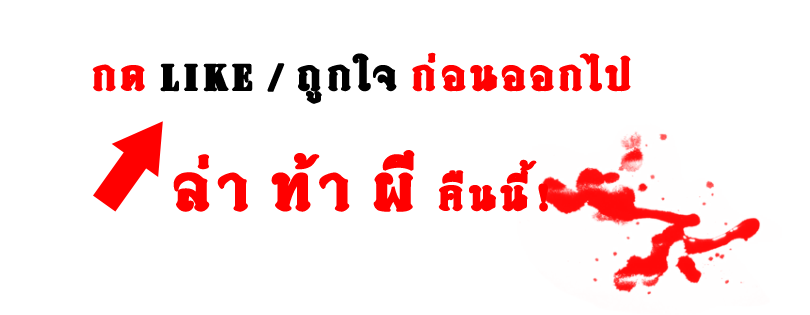
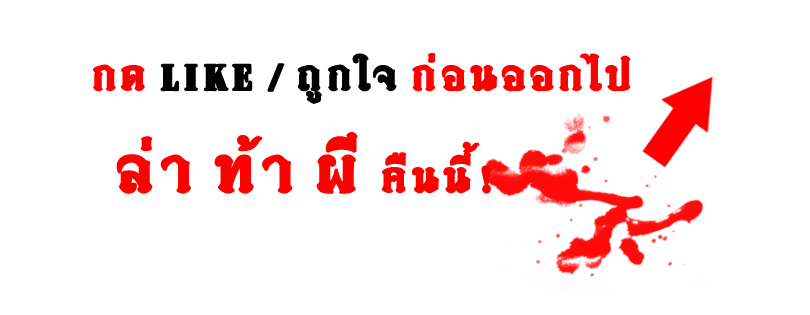
Added images Changed size & position Change like image

Changed region(s): [[0.0926, 0.2286, 0.9568, 0.9429], [0.8642, 0.5714, 0.8951, 0.6]]

diff --git a/application/config/socialhappen.php b/application/config/socialhappen.php
@@ -28,10 +28,10 @@ $config['facebook_app_scope'] = 'user_about_me,publish_stream,user_likes';
 $config['mockuphappen_enable'] = TRUE;
 
 $config['randomapp_settings'] = array(
-	'profile_image_size' => 84,
-	'profile_image_x' => 44,
-	'profile_image_y' => 27,
+	'profile_image_size' => 65,
+	'profile_image_x' => 70,
+	'profile_image_y' => 48,
 	'profile_image_type' => 'square',
 	'profile_image_facebook_size' => 50,
-	'default_message' => "ล่า ท้า ผี...คุณจะเจอผีแบบไหน? ",
+	'default_message' => "ล่า ท้า ผี...คุณจะเจอผีแบบไหน? \nhttps://www.facebook.com/SocialHappen/app_266924893395731"
 );

diff --git a/application/controllers/home.php b/application/controllers/home.php
@@ -135,8 +135,8 @@ class Home extends CI_Controller {
 				$font_file = $original_font_file;
 			}
 			//Shadow
-			imagettftext($background_image, 14, 0, 148, 36, $grey, $font_file, $user['name']);
-			imagettftext($background_image, 14, 0, 150, 38, $white, $font_file, $user['name']);
+			imagettftext($background_image, 14, 0, $profile_image_x + $profile_image_size + 15, $profile_image_y + 7, $grey, $font_file, $user['name']);
+			imagettftext($background_image, 14, 0, $profile_image_x + $profile_image_size + 17, $profile_image_y + 9, $white, $font_file, $user['name']);
 		}
 
 		$filename = sha1('SaLt'.$facebook_uid.'TlAs');

diff --git a/application/config/production/socialhappen.php b/application/config/production/socialhappen.php
@@ -28,9 +28,9 @@ $config['facebook_app_scope'] = 'user_about_me,publish_stream,user_likes';
 $config['mockuphappen_enable'] = TRUE;
 
 $config['randomapp_settings'] = array(
-	'profile_image_size' => 84,
-	'profile_image_x' => 44,
-	'profile_image_y' => 27,
+	'profile_image_size' => 65,
+	'profile_image_x' => 70,
+	'profile_image_y' => 48,
 	'profile_image_type' => 'square',
 	'profile_image_facebook_size' => 50,
 	'default_message' => "ล่า ท้า ผี...คุณจะเจอผีแบบไหน? \nhttps://www.facebook.com/SocialHappen/app_266924893395731"

diff --git a/application/views/play_view.php b/application/views/play_view.php
@@ -9,7 +9,7 @@
 <body style="background-color:black">
 	<center>
 		<?php
-		echo img($image_url);
+		echo '<p>'.img($image_url).'</p>';
 		echo form_open('home/upload', array('class'=>'form-inline'));
 		?>
 		
